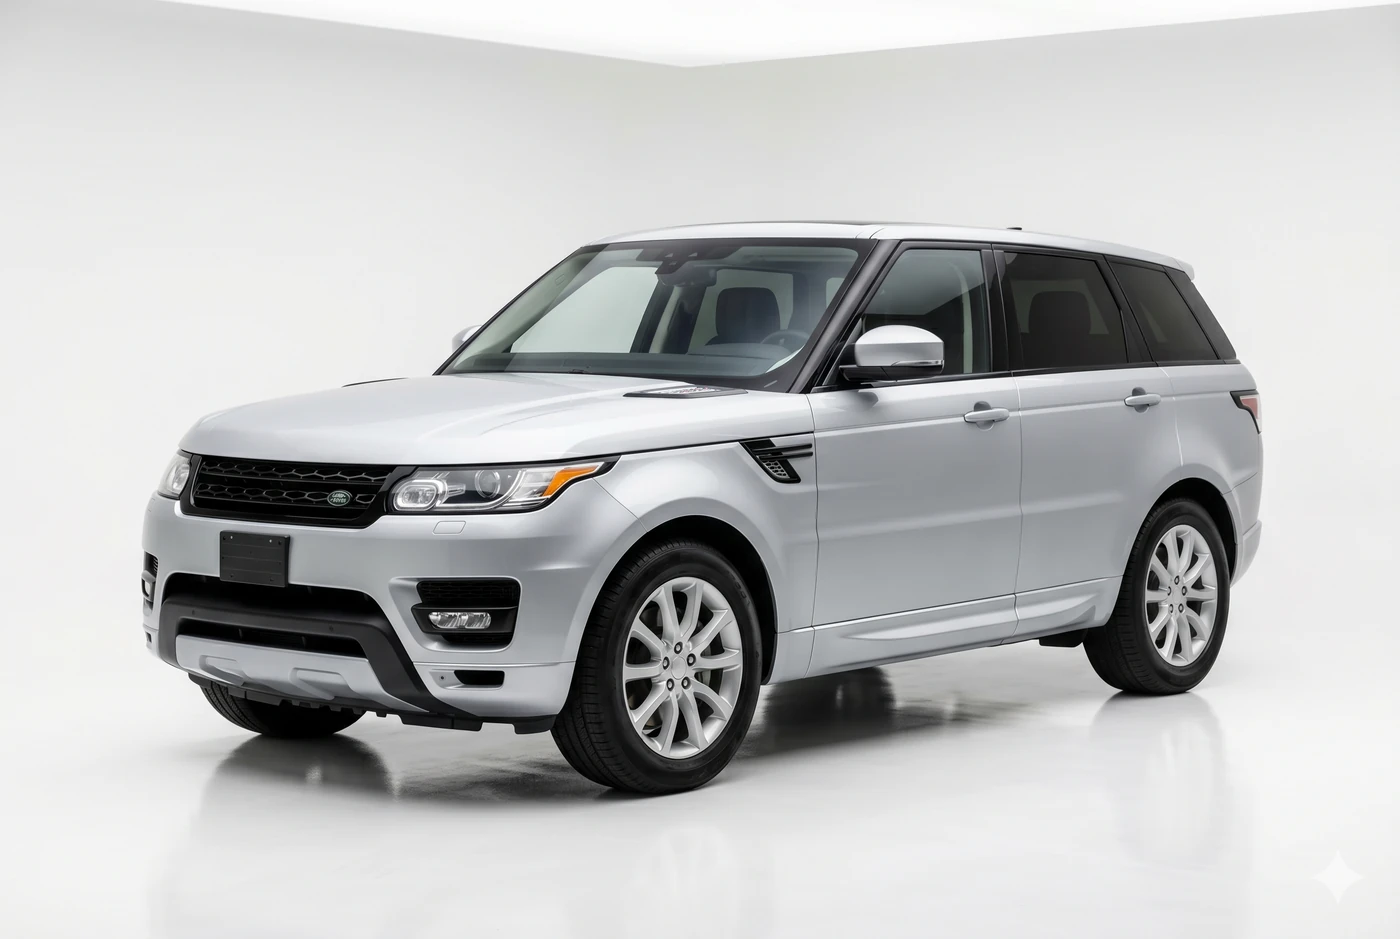
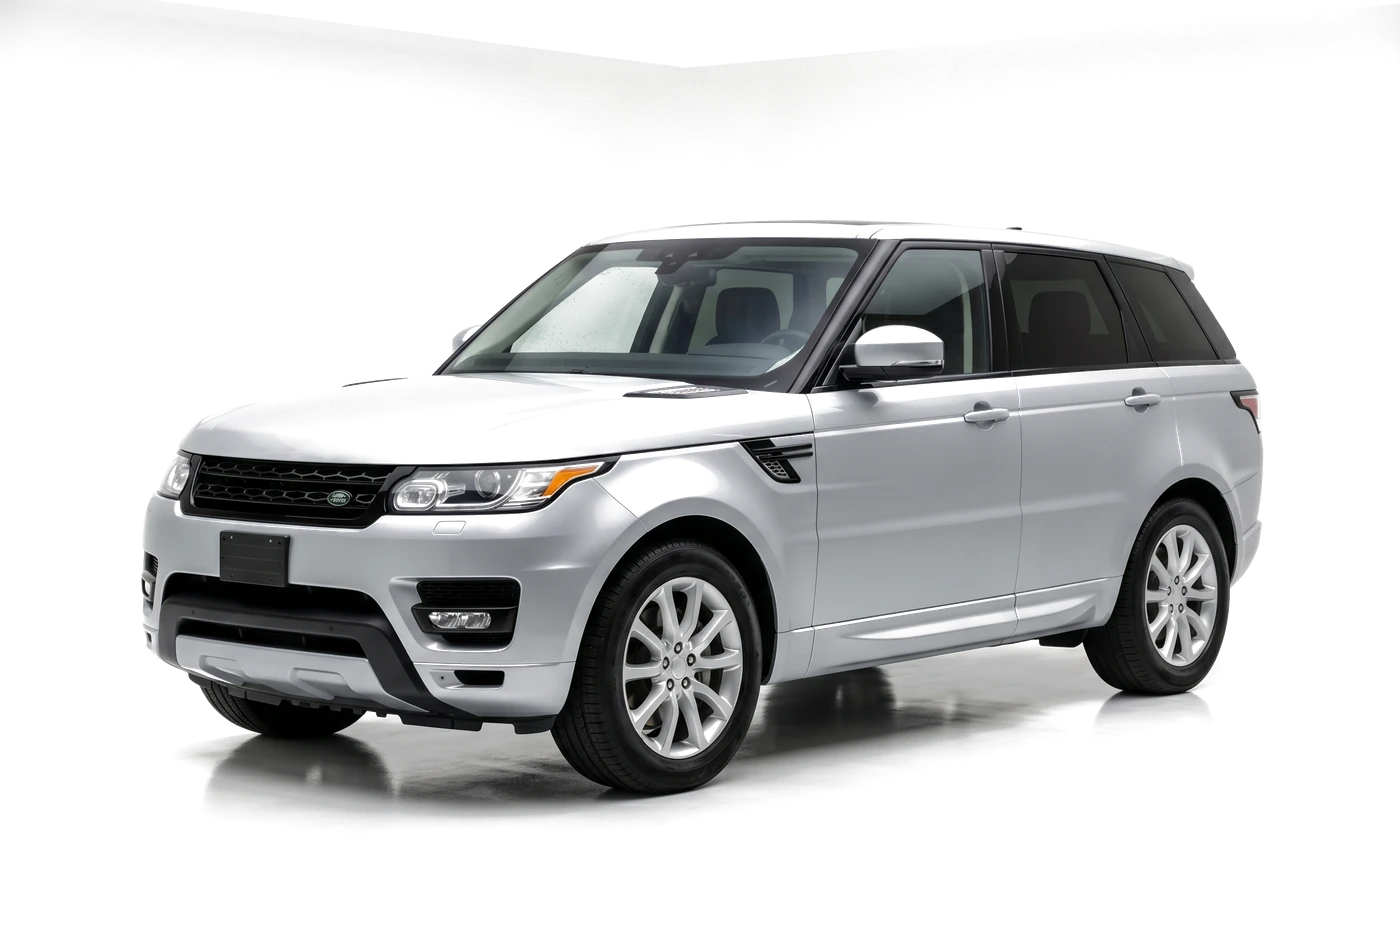
fix(cars): chroma key real (alpha transparente) en las 4 fotos de auto
El radial mask CSS no era suficiente porque el backdrop de estudio
tenia gradientes sutiles que aun se notaban como cuadro.

Nuevo script scripts/dekey-cars.mjs procesa las 4 fotos PNG
originales con sharp y aplica chroma key por luminancia + neutralidad:
- Pixels neutros (R~G~B, saturacion <= 14) con lum >= 220 -> alpha 0
- Transicion suave entre 195-220 lum
- Pixels saturados o oscuros (auto + sombra) -> opacos

Resultado: corners 100% transparentes (verificado con sharp raw).

- Reemplazadas: cars/mercedes.webp, bmw.webp, landrover.webp,
  sprinter.webp (todas con alpha real, NO mas backdrop visible)
- BrandCards: quitado mix-blend-multiply y radial mask CSS
  (ya no necesarios con alpha verdadero)
- VehicleSelector: mismos cambios

diff --git a/src/components/home/brand-cards.tsx b/src/components/home/brand-cards.tsx
@@ -97,22 +97,14 @@ export async function BrandCards() {
                   } transition-all duration-500`}
                 />
 
-                {/* Car photo — radial mask para difuminar el fondo studio */}
-                <div
-                  className="relative h-40 w-full sm:h-48 lg:h-56"
-                  style={{
-                    maskImage:
-                      'radial-gradient(ellipse 85% 78% at center, black 55%, transparent 95%)',
-                    WebkitMaskImage:
-                      'radial-gradient(ellipse 85% 78% at center, black 55%, transparent 95%)',
-                  }}
-                >
+                {/* Car photo — fondo ya removido con chroma key */}
+                <div className="relative h-40 w-full sm:h-48 lg:h-56">
                   <Image
                     src={brand.photo}
                     alt={brand.name}
                     fill
                     sizes="(max-width: 1024px) 100vw, 33vw"
-                    className="object-contain mix-blend-multiply transition-transform duration-700 group-hover:scale-105"
+                    className="object-contain transition-transform duration-700 group-hover:scale-105"
                   />
                 </div>
 

diff --git a/src/components/vehicle/vehicle-selector.tsx b/src/components/vehicle/vehicle-selector.tsx
@@ -69,21 +69,13 @@ export function VehicleSelector() {
                 onClick={() => setBrand(b)}
                 className="group flex flex-col items-center gap-6 bg-ink-3 px-6 py-10 transition-colors hover:bg-ink-1"
               >
-                <div
-                  className="relative h-32 w-full sm:h-40"
-                  style={{
-                    maskImage:
-                      'radial-gradient(ellipse 85% 78% at center, black 55%, transparent 95%)',
-                    WebkitMaskImage:
-                      'radial-gradient(ellipse 85% 78% at center, black 55%, transparent 95%)',
-                  }}
-                >
+                <div className="relative h-32 w-full sm:h-40">
                   <Image
                     src={brandPhotos[b]}
                     alt={brandLabels[b]}
                     fill
                     sizes="(max-width: 640px) 100vw, 33vw"
-                    className="object-contain mix-blend-multiply transition-transform duration-500 group-hover:scale-105"
+                    className="object-contain transition-transform duration-500 group-hover:scale-105"
                   />
                 </div>
                 <div className="text-center">
